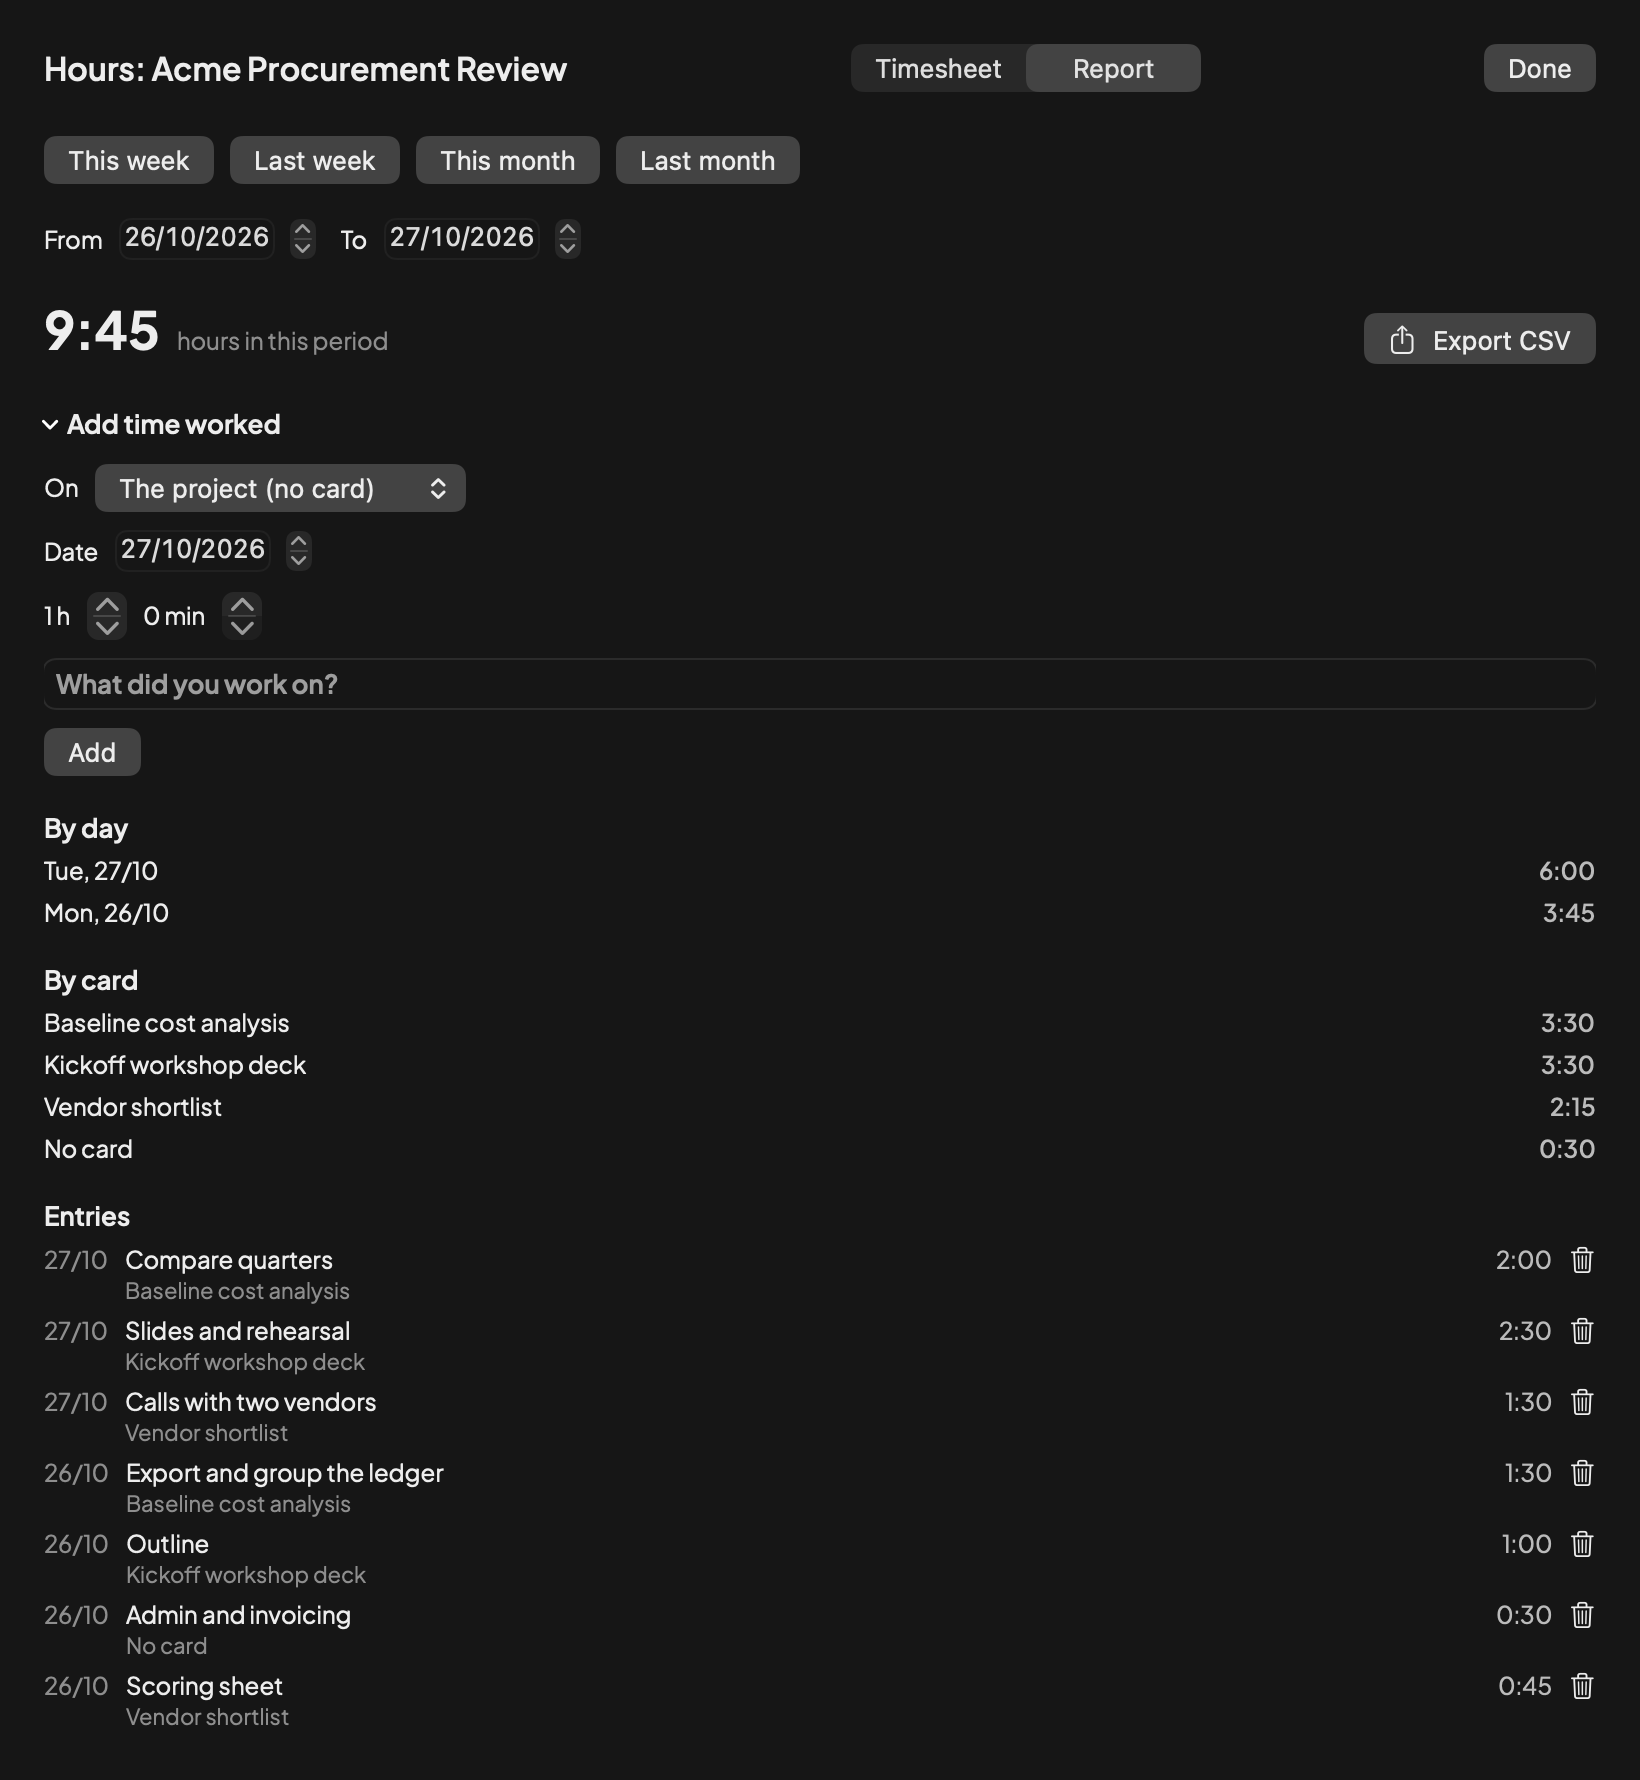
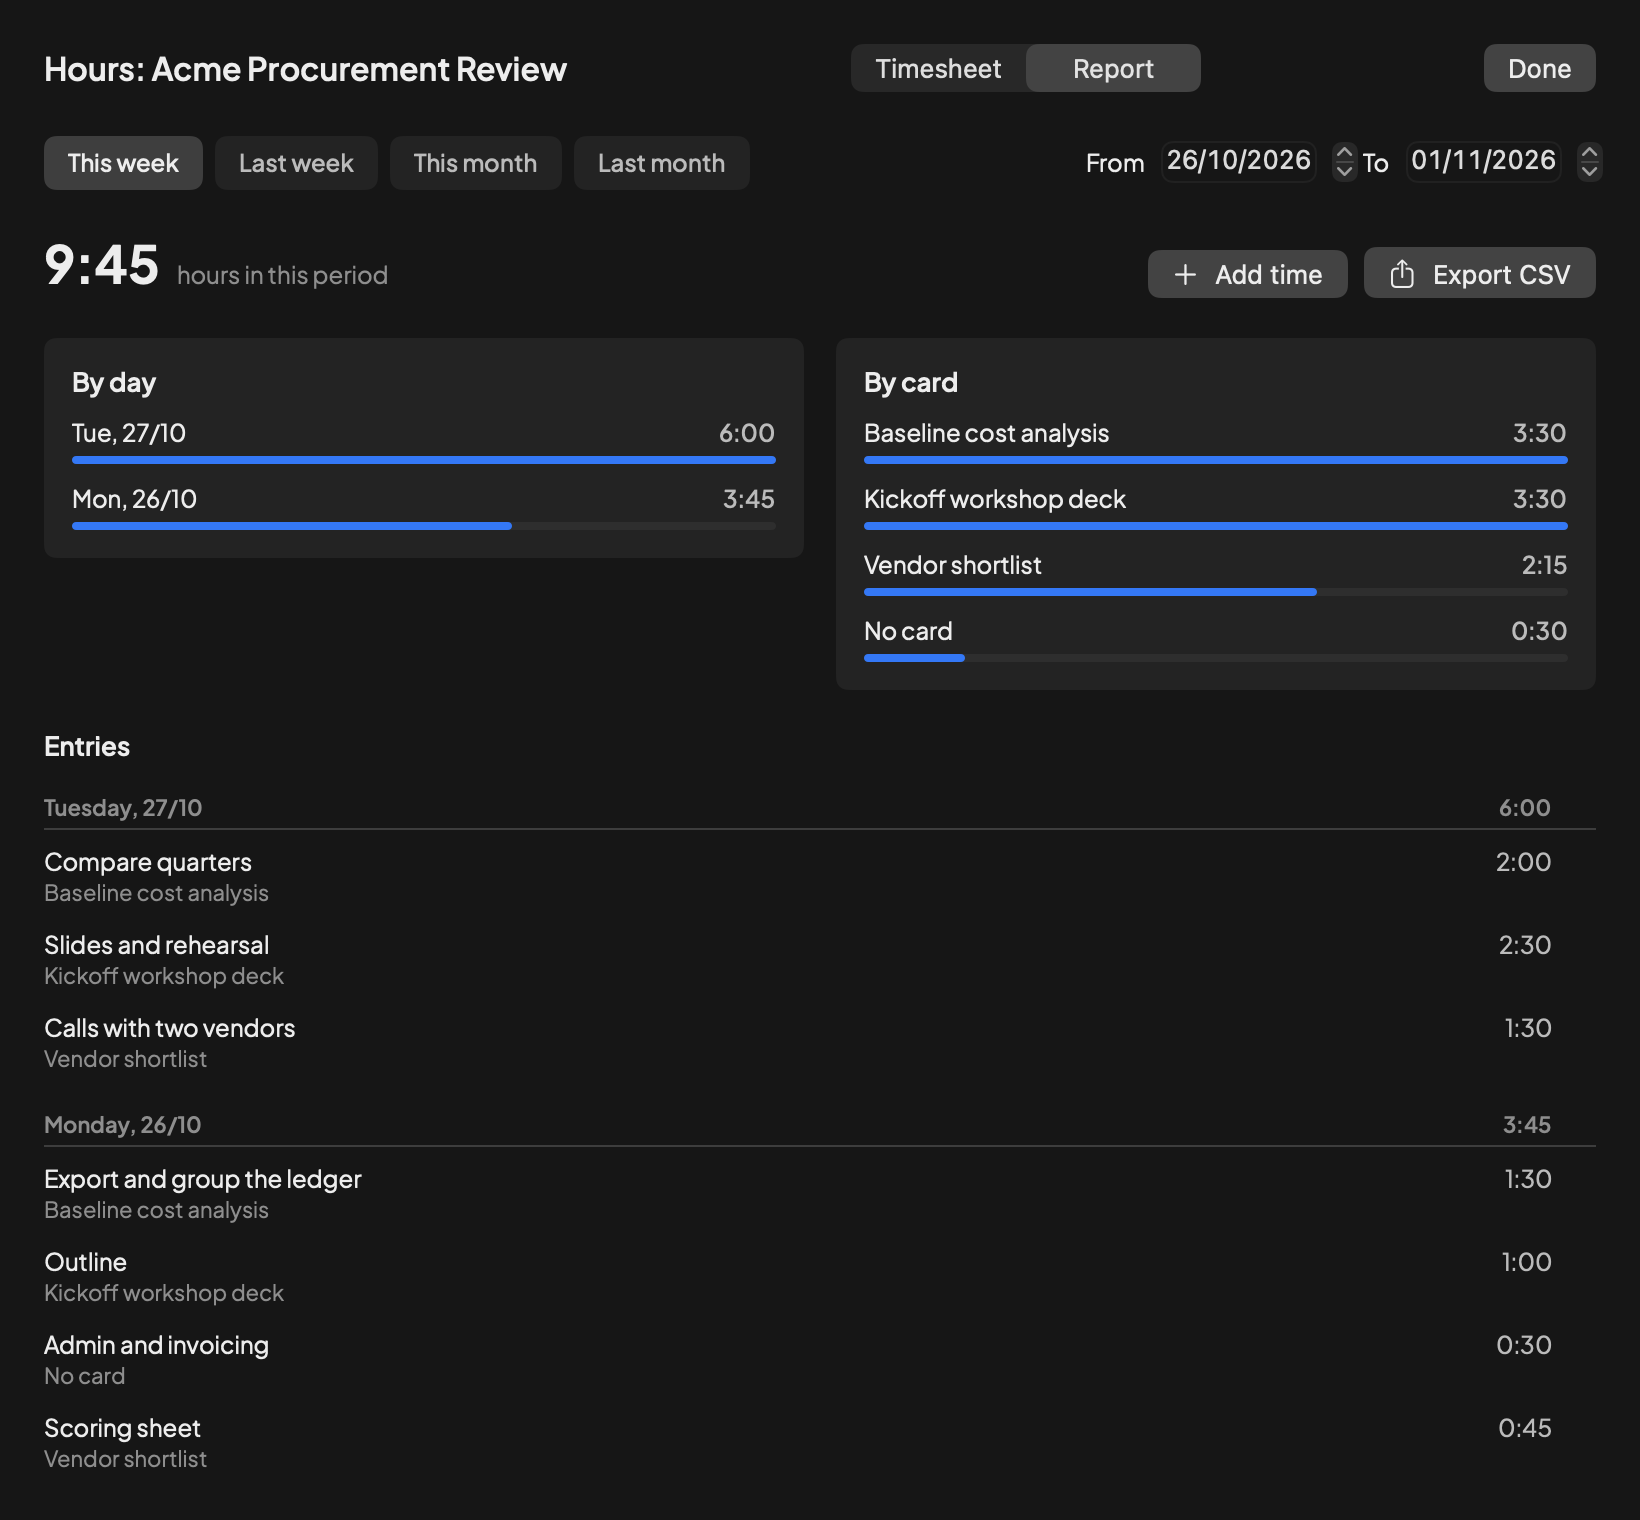
feat(hours): refine the report with chips, bars and day groups

diff --git a/Sources/KanbanUI/TimeViews.swift b/Sources/KanbanUI/TimeViews.swift
@@ -90,112 +90,173 @@ private func saveCSV(_ text: String, named name: String) {
 struct TimeReportView: View {
     let project: Project
     @State private var from = Calendar.current.dateInterval(of: .weekOfYear, for: Date())?.start ?? Date()
-    @State private var to = Date()
+    @State private var to = Calendar.current.dateInterval(of: .weekOfYear, for: Date())?.end.addingTimeInterval(-1) ?? Date()
     @State private var target: Card?
-    @State private var showingForm = true
+    @State private var showingForm = false
 
-    private func preset(_ component: Calendar.Component, offset: Int) {
-        let calendar = Calendar.current
+    private let calendar = Calendar.current
+
+    private func range(_ component: Calendar.Component, offset: Int) -> (start: Date, end: Date)? {
         guard let current = calendar.dateInterval(of: component, for: Date()),
               let start = calendar.date(byAdding: component, value: offset, to: current.start),
-              let end = calendar.dateInterval(of: component, for: start)?.end else { return }
-        from = start
-        to = end.addingTimeInterval(-1)
+              let end = calendar.dateInterval(of: component, for: start)?.end else { return nil }
+        return (start, end.addingTimeInterval(-1))
+    }
+
+    private func presetButton(_ title: String, _ component: Calendar.Component, offset: Int) -> some View {
+        let period = range(component, offset: offset)
+        let selected = period.map { calendar.isDate(from, inSameDayAs: $0.start) && calendar.isDate(to, inSameDayAs: $0.end) } ?? false
+        return Button(title) {
+            if let period { from = period.start; to = period.end }
+        }
+        .buttonStyle(.plain)
+        .font(Theme.font(12, weight: .medium))
+        .foregroundStyle(selected ? Theme.text : Theme.mutedStrong)
+        .padding(.horizontal, 12)
+        .padding(.vertical, 6)
+        .background(selected ? Theme.border : Theme.card, in: RoundedRectangle(cornerRadius: Theme.cornerRadius))
+        .accessibilityAddTraits(selected ? .isSelected : [])
     }
 
     var body: some View {
         let report = TimeReport(project: project, from: from, to: to)
-        VStack(spacing: 0) {
-            ScrollView {
-                VStack(alignment: .leading, spacing: 18) {
-                    HStack(spacing: 8) {
-                        Button("This week") { preset(.weekOfYear, offset: 0) }
-                        Button("Last week") { preset(.weekOfYear, offset: -1) }
-                        Button("This month") { preset(.month, offset: 0) }
-                        Button("Last month") { preset(.month, offset: -1) }
-                    }
-                    HStack(spacing: 16) {
-                        DatePicker("From", selection: $from, displayedComponents: .date)
-                        DatePicker("To", selection: $to, displayedComponents: .date)
-                    }
-                    .font(Theme.font(12))
+        ScrollView {
+            VStack(alignment: .leading, spacing: 20) {
+                HStack(spacing: 6) {
+                    presetButton("This week", .weekOfYear, offset: 0)
+                    presetButton("Last week", .weekOfYear, offset: -1)
+                    presetButton("This month", .month, offset: 0)
+                    presetButton("Last month", .month, offset: -1)
+                    Spacer()
+                    DatePicker("From", selection: $from, displayedComponents: .date).fixedSize()
+                    DatePicker("To", selection: $to, displayedComponents: .date).fixedSize()
+                }
+                .font(Theme.font(12))
 
-                    HStack(alignment: .firstTextBaseline) {
-                        Text(TimeReport.clock(report.totalSeconds)).font(Theme.font(26, weight: .bold))
-                        Text("hours in this period").font(Theme.font(12)).foregroundStyle(Theme.muted)
-                        Spacer()
-                        Button { saveCSV(report.csv, named: "\(project.name) hours.csv") } label: { Label("Export CSV", systemImage: "square.and.arrow.up") }
-                            .disabled(report.rows.isEmpty)
-                    }
+                HStack(alignment: .firstTextBaseline, spacing: 8) {
+                    Text(TimeReport.clock(report.totalSeconds)).font(Theme.font(26, weight: .bold))
+                    Text("hours in this period").font(Theme.font(12)).foregroundStyle(Theme.muted)
+                    Spacer()
+                    Button { showingForm.toggle() } label: { Label("Add time", systemImage: showingForm ? "minus" : "plus") }
+                    Button { saveCSV(report.csv, named: "\(project.name) hours.csv") } label: { Label("Export CSV", systemImage: "square.and.arrow.up") }
+                        .disabled(report.rows.isEmpty)
+                }
 
-                    DisclosureGroup("Add time worked", isExpanded: $showingForm) {
-                        VStack(alignment: .leading, spacing: 10) {
-                            Picker("On", selection: $target) {
-                                Text("The project (no card)").tag(Card?.none)
-                                ForEach(project.timeableCards, id: \.publicId) { Text($0.title).tag(Card?.some($0)) }
-                            }
-                            .font(Theme.font(12))
-                            TimeEntryFields { seconds, day, note in
-                                if let target { target.logTime(seconds: seconds, on: day, note: note) }
-                                else { project.logTime(seconds: seconds, on: day, note: note) }
-                            }
+                if showingForm {
+                    VStack(alignment: .leading, spacing: 10) {
+                        Picker("On", selection: $target) {
+                            Text("The project (no card)").tag(Card?.none)
+                            ForEach(project.timeableCards, id: \.publicId) { Text($0.title).tag(Card?.some($0)) }
                         }
-                        .padding(.top, 8)
+                        .font(Theme.font(12))
+                        TimeEntryFields { seconds, day, note in
+                            if let target { target.logTime(seconds: seconds, on: day, note: note) }
+                            else { project.logTime(seconds: seconds, on: day, note: note) }
+                        }
                     }
-                    .font(Theme.font(13, weight: .semibold))
+                    .padding(14)
+                    .frame(maxWidth: .infinity, alignment: .leading)
+                    .background(Theme.card, in: RoundedRectangle(cornerRadius: Theme.cornerRadius))
+                }
 
-                    if report.rows.isEmpty {
-                        Text("No time logged in this period. Add time above, or use a card's Time button.")
-                            .font(Theme.font(12)).foregroundStyle(Theme.muted)
-                    } else {
-                        group("By day") {
+                if report.rows.isEmpty {
+                    Text("No time logged in this period. Add time above, or use a card's Time button.")
+                        .font(Theme.font(12)).foregroundStyle(Theme.muted)
+                } else {
+                    HStack(alignment: .top, spacing: 16) {
+                        panel("By day") {
+                            let longest = report.byDay.map(\.seconds).max() ?? 1
                             ForEach(report.byDay, id: \.day) { entry in
-                                line(entry.day.formatted(.dateTime.weekday(.abbreviated).day().month(.abbreviated)), entry.seconds)
+                                barLine(entry.day.formatted(.dateTime.weekday(.abbreviated).day().month(.abbreviated)), entry.seconds, of: longest)
                             }
                         }
-                        group("By card") {
-                            ForEach(report.byCard, id: \.title) { line($0.title, $0.seconds) }
+                        panel("By card") {
+                            let longest = report.byCard.map(\.seconds).max() ?? 1
+                            ForEach(report.byCard, id: \.title) { barLine($0.title, $0.seconds, of: longest) }
                         }
-                        group("Entries") {
-                            ForEach(report.rows, id: \.entry.publicId) { row in
-                                HStack(alignment: .firstTextBaseline, spacing: 8) {
-                                    Text(row.day.formatted(.dateTime.day().month(.abbreviated))).foregroundStyle(Theme.muted)
-                                    VStack(alignment: .leading, spacing: 1) {
-                                        Text(row.note.isEmpty ? row.cardTitle : row.note).lineLimit(2)
-                                        if !row.note.isEmpty {
-                                            Text(row.cardTitle).font(Theme.font(11)).foregroundStyle(Theme.muted).lineLimit(1)
-                                        }
-                                    }
+                    }
+
+                    VStack(alignment: .leading, spacing: 16) {
+                        Text("Entries").font(Theme.font(13, weight: .semibold))
+                        ForEach(report.byDay, id: \.day) { group in
+                            VStack(alignment: .leading, spacing: 4) {
+                                HStack {
+                                    Text(group.day.formatted(.dateTime.weekday(.wide).day().month(.abbreviated)))
                                     Spacer()
-                                    Text(TimeReport.clock(row.seconds)).foregroundStyle(Theme.mutedStrong)
-                                    Button { row.entry.stop(); row.entry.deletedAt = Date() } label: { Image(systemName: "trash") }
-                                        .buttonStyle(.plain)
-                                        .help("Delete this entry")
+                                    Text(TimeReport.clock(group.seconds))
                                 }
-                                .font(Theme.font(12))
+                                .font(Theme.font(11, weight: .semibold))
+                                .foregroundStyle(Theme.muted)
+                                .padding(.trailing, ReportEntryLine.deleteColumnWidth)
+                                Divider()
+                                ForEach(report.rows.filter { $0.day == group.day }, id: \.entry.publicId) { ReportEntryLine(row: $0) }
                             }
                         }
                     }
                 }
-                .padding(.horizontal, 22)
-                .padding(.bottom, 22)
             }
+            .padding(.horizontal, 22)
+            .padding(.bottom, 22)
         }
     }
 
-    private func group<Content: View>(_ title: String, @ViewBuilder content: () -> Content) -> some View {
-        VStack(alignment: .leading, spacing: 6) {
+    private func panel<Content: View>(_ title: String, @ViewBuilder content: () -> Content) -> some View {
+        VStack(alignment: .leading, spacing: 10) {
             Text(title).font(Theme.font(13, weight: .semibold))
             content()
         }
+        .padding(14)
+        .frame(maxWidth: .infinity, alignment: .topLeading)
+        .background(Theme.card, in: RoundedRectangle(cornerRadius: Theme.cornerRadius))
     }
 
-    private func line(_ title: String, _ seconds: Int) -> some View {
-        HStack {
-            Text(title).font(Theme.font(12)).lineLimit(1)
-            Spacer()
-            Text(TimeReport.clock(seconds)).font(Theme.font(12, weight: .medium)).foregroundStyle(Theme.mutedStrong)
+    /// A label and its time, with a bar sized against the longest line of the same list.
+    private func barLine(_ title: String, _ seconds: Int, of longest: Int) -> some View {
+        VStack(spacing: 4) {
+            HStack {
+                Text(title).font(Theme.font(12)).lineLimit(1)
+                Spacer()
+                Text(TimeReport.clock(seconds)).font(Theme.font(12, weight: .medium)).foregroundStyle(Theme.mutedStrong)
+            }
+            GeometryReader { geometry in
+                ZStack(alignment: .leading) {
+                    Capsule().fill(Theme.divider)
+                    Capsule().fill(Color.accentColor).frame(width: geometry.size.width * CGFloat(seconds) / CGFloat(max(longest, 1)))
+                }
+            }
+            .frame(height: 4)
         }
+    }
+}
+
+/// One logged entry. The delete button appears on hover so a stray click on a quiet row cannot remove time.
+private struct ReportEntryLine: View {
+    /// The delete button's width plus the gap before it, so day subtotals line up with the entry times.
+    static let deleteColumnWidth: CGFloat = 22
+    let row: TimeReport.Row
+    @State private var hovering = false
+
+    var body: some View {
+        HStack(alignment: .firstTextBaseline, spacing: 8) {
+            VStack(alignment: .leading, spacing: 1) {
+                Text(row.note.isEmpty ? row.cardTitle : row.note).lineLimit(2)
+                if !row.note.isEmpty {
+                    Text(row.cardTitle).font(Theme.font(11)).foregroundStyle(Theme.muted).lineLimit(1)
+                }
+            }
+            Spacer()
+            Text(TimeReport.clock(row.seconds)).foregroundStyle(Theme.mutedStrong)
+            Button { row.entry.stop(); row.entry.deletedAt = Date() } label: { Image(systemName: "trash") }
+                .buttonStyle(.plain)
+                .foregroundStyle(Theme.muted)
+                .opacity(hovering ? 1 : 0)
+                .help("Delete this entry")
+                .accessibilityLabel("Delete this entry")
+        }
+        .font(Theme.font(12))
+        .padding(.vertical, 4)
+        .contentShape(Rectangle())
+        .onHover { hovering = $0 }
     }
 }
 
